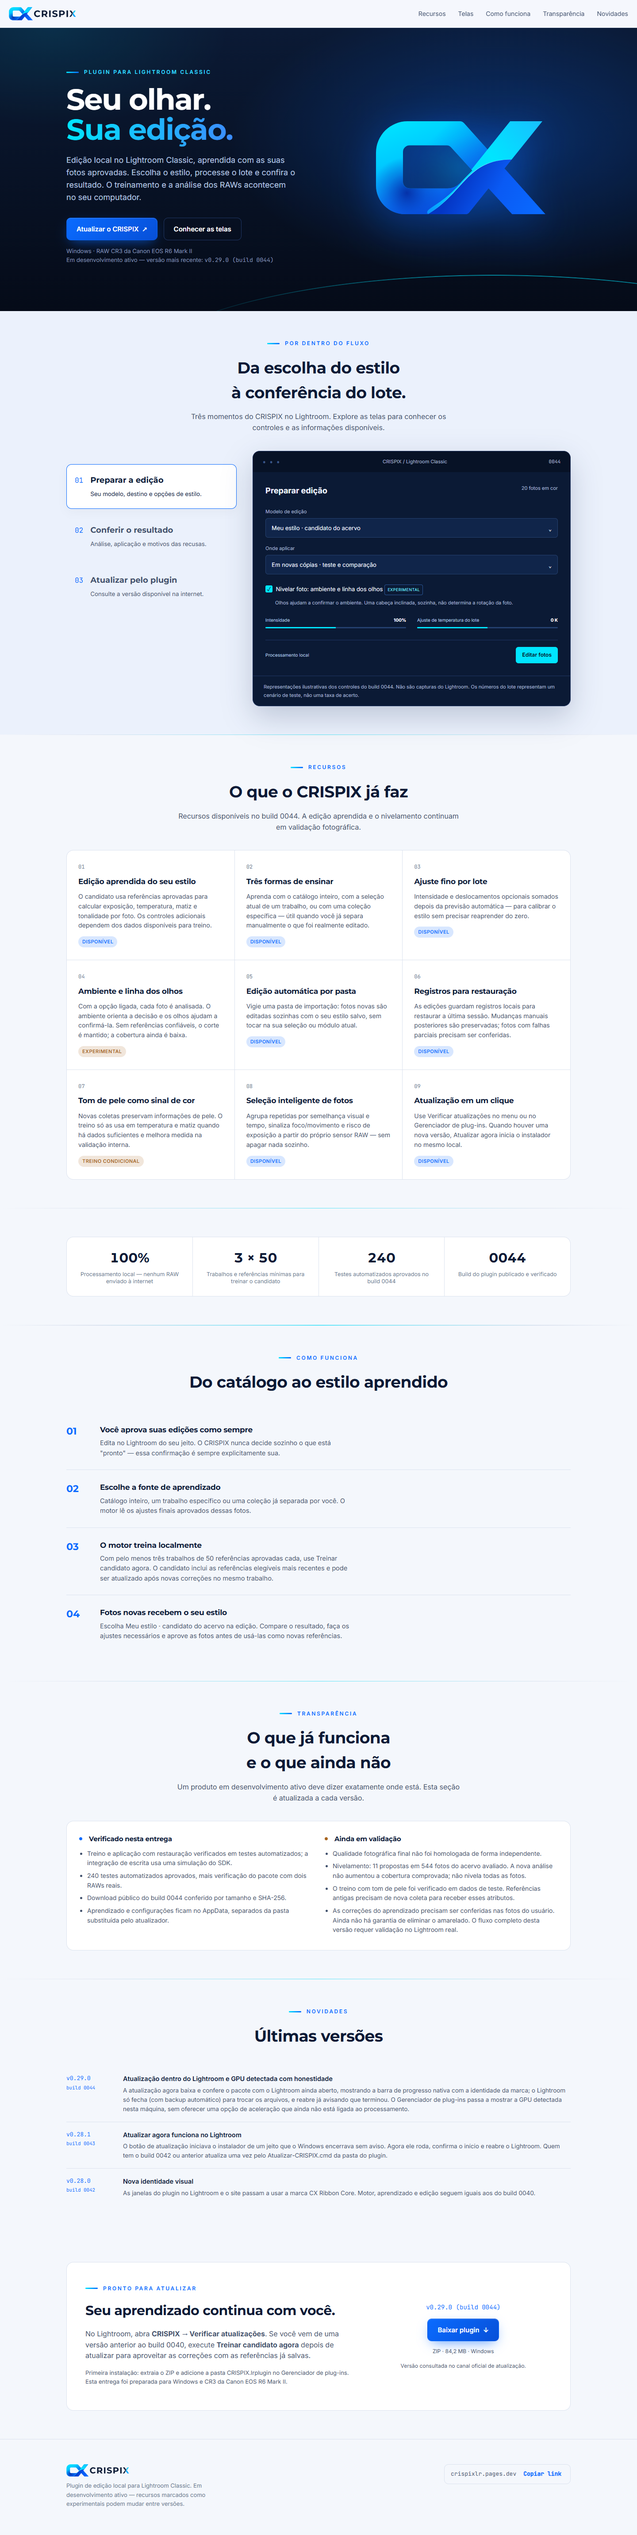
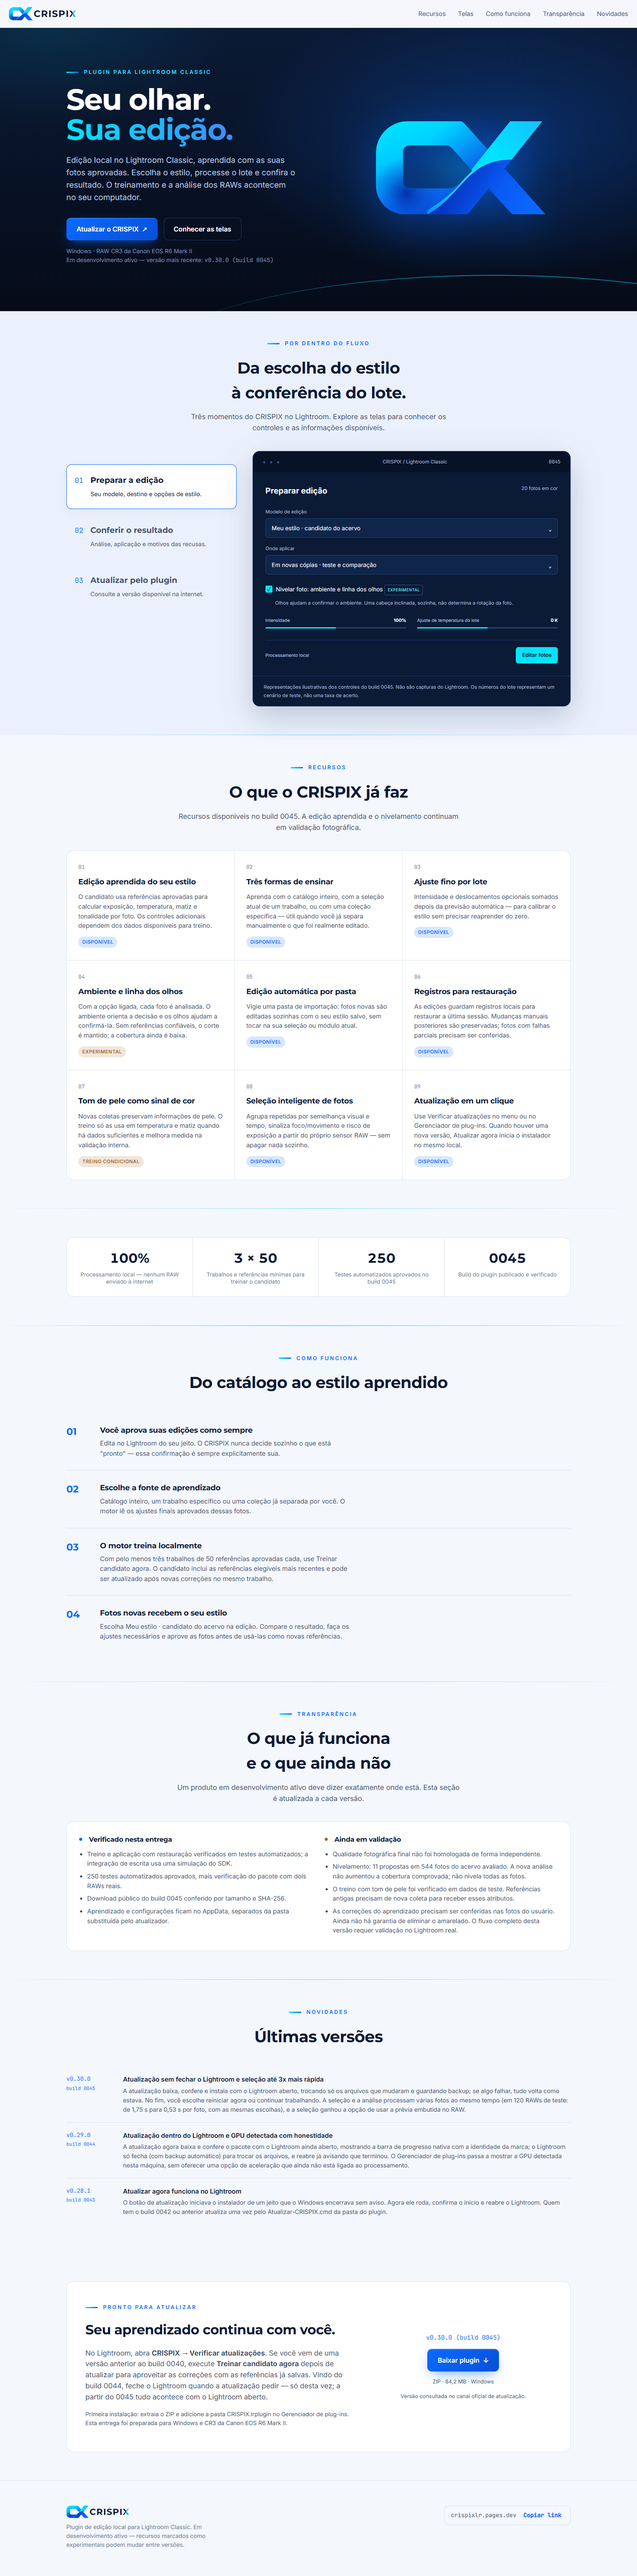
improve: atualiza textos fixos do site para o build 0045
Versao, link de download, contagem de testes (240 -> 250), tela
ilustrativa do atualizador (agora instala com o Lightroom aberto),
entrada de novidades do 0045 e aviso de transicao para quem vem do
0044. QA visual via Playwright: 9 verificacoes, zero erros de JS.

diff --git a/targets/mizin_lightroom/reconstructed/branding/site/index.html b/targets/mizin_lightroom/reconstructed/branding/site/index.html
@@ -3,7 +3,7 @@
 <head>
 <meta charset="utf-8">
 <meta name="viewport" content="width=device-width, initial-scale=1">
-<meta name="description" content="CRISPIX para Lightroom Classic: edição local, aprendizado com suas fotos aprovadas e atualização pelo próprio plugin. Conheça o build 0044.">
+<meta name="description" content="CRISPIX para Lightroom Classic: edição local, aprendizado com suas fotos aprovadas e atualização pelo próprio plugin. Conheça o build 0045.">
 <title>CRISPIX — seu estilo, no Lightroom Classic</title>
 <meta name="theme-color" content="#050B18">
 <link rel="icon" href="favicon.svg" type="image/svg+xml">
@@ -301,7 +301,7 @@
         <a class="btn btn-primary" href="#atualizar">Atualizar o CRISPIX <span aria-hidden="true">↗</span></a>
         <a class="btn btn-ghost" href="#telas">Conhecer as telas</a>
       </div>
-      <p class="hero-note">Windows · RAW CR3 da Canon EOS R6 Mark II<br>Em desenvolvimento ativo — versão mais recente: <span class="mono" id="verAtual">v0.29.0 (build 0044)</span></p>
+      <p class="hero-note">Windows · RAW CR3 da Canon EOS R6 Mark II<br>Em desenvolvimento ativo — versão mais recente: <span class="mono" id="verAtual">v0.30.0 (build 0045)</span></p>
     </div>
     <div class="mark-stage">
       <img src="brand/crispix-simbolo.svg" width="1192" height="660" alt="">
@@ -319,7 +319,7 @@
     <button id="tab-update" role="tab" aria-selected="false" aria-controls="screen-update" tabindex="-1" data-screen="update"><span class="screen-number">03</span><span><strong>Atualizar pelo plugin</strong><small>Consulte a versão disponível na internet.</small></span></button>
    </div>
    <div class="demo-frame">
-    <div class="demo-bar"><span class="demo-dots" aria-hidden="true">● ● ●</span><span>CRISPIX / Lightroom Classic</span><span class="mono">0044</span></div>
+    <div class="demo-bar"><span class="demo-dots" aria-hidden="true">● ● ●</span><span>CRISPIX / Lightroom Classic</span><span class="mono">0045</span></div>
     <div id="screen-edit" role="tabpanel" aria-labelledby="tab-edit" class="demo-panel">
      <div class="demo-heading"><strong>Preparar edição</strong><span>20 fotos em cor</span></div>
      <div class="mock-field"><span>Modelo de edição</span><div>Meu estilo · candidato do acervo <span aria-hidden="true">⌄</span></div></div>
@@ -339,11 +339,11 @@
     </div>
     <div id="screen-update" role="tabpanel" aria-labelledby="tab-update" class="demo-panel" hidden>
      <div class="demo-heading"><strong>Nova versão disponível</strong><span>Canal: internet</span></div>
-     <div class="update-version"><span class="small-badge">Disponível</span><strong>v0.29.0</strong><span class="mono">build 0044</span></div>
-     <p>O atualizador baixa o pacote e confere sua integridade antes de instalar.</p><div class="demo-callout">O Lightroom será fechado e reaberto. Conclua o backup do catálogo se a janela aparecer. O aprendizado salvo fica preservado.</div>
+     <div class="update-version"><span class="small-badge">Disponível</span><strong>v0.30.0</strong><span class="mono">build 0045</span></div>
+     <p>O atualizador baixa o pacote e confere sua integridade antes de instalar.</p><div class="demo-callout">A instalação acontece com o Lightroom aberto, com backup automático. No fim, escolha reiniciar agora ou depois. O aprendizado salvo fica preservado.</div>
      <div class="demo-actions"><span>Verificar atualizações</span><span class="mock-action">Atualizar agora</span></div>
     </div>
-    <p class="demo-caption">Representações ilustrativas dos controles do build 0044. Não são capturas do Lightroom. Os números do lote representam um cenário de teste, não uma taxa de acerto.</p>
+    <p class="demo-caption">Representações ilustrativas dos controles do build 0045. Não são capturas do Lightroom. Os números do lote representam um cenário de teste, não uma taxa de acerto.</p>
    </div>
   </div>
  </div>
@@ -357,7 +357,7 @@
     <div class="section-head">
       <div class="eyebrow">Recursos</div>
       <h2>O que o CRISPIX já faz</h2>
-      <p>Recursos disponíveis no build 0044. A edição aprendida e o nivelamento continuam em validação fotográfica.</p>
+      <p>Recursos disponíveis no build 0045. A edição aprendida e o nivelamento continuam em validação fotográfica.</p>
     </div>
     <div class="features">
       <div class="feature">
@@ -425,8 +425,8 @@
     <div class="stats">
       <div class="stat"><div class="big mono">100%</div><div class="lbl">Processamento local — nenhum RAW enviado à internet</div></div>
       <div class="stat"><div class="big mono">3 × 50</div><div class="lbl">Trabalhos e referências mínimas para treinar o candidato</div></div>
-      <div class="stat"><div class="big mono">240</div><div class="lbl">Testes automatizados aprovados no build 0044</div></div>
-      <div class="stat"><div class="big mono">0044</div><div class="lbl">Build do plugin publicado e verificado</div></div>
+      <div class="stat"><div class="big mono">250</div><div class="lbl">Testes automatizados aprovados no build 0045</div></div>
+      <div class="stat"><div class="big mono">0045</div><div class="lbl">Build do plugin publicado e verificado</div></div>
     </div>
   </div>
 </section>
@@ -485,8 +485,8 @@
         <h3><span class="pip on"></span>Verificado nesta entrega</h3>
         <ul>
           <li>Treino e aplicação com restauração verificados em testes automatizados; a integração de escrita usa uma simulação do SDK.</li>
-          <li>240 testes automatizados aprovados, mais verificação do pacote com dois RAWs reais.</li>
-          <li>Download público do build 0044 conferido por tamanho e SHA-256.</li>
+          <li>250 testes automatizados aprovados, mais verificação do pacote com dois RAWs reais.</li>
+          <li>Download público do build 0045 conferido por tamanho e SHA-256.</li>
           <li>Aprendizado e configurações ficam no AppData, separados da pasta substituída pelo atualizador.</li>
         </ul>
       </div>
@@ -512,14 +512,14 @@
       <h2>Últimas versões</h2>
     </div>
     <div class="log">
+<div class="log-row"><div class="log-ver">v0.30.0<br><small>build 0045</small></div><div class="log-body"><h4>Atualização sem fechar o Lightroom e seleção até 3x mais rápida</h4><p>A atualização baixa, confere e instala com o Lightroom aberto, trocando só os arquivos que mudaram e guardando backup; se algo falhar, tudo volta como estava. No fim, você escolhe reiniciar agora ou continuar trabalhando. A seleção e a análise processam várias fotos ao mesmo tempo (em 120 RAWs de teste: de 1,75 s para 0,53 s por foto, com as mesmas escolhas), e a seleção ganhou a opção de usar a prévia embutida no RAW.</p></div></div>
 <div class="log-row"><div class="log-ver">v0.29.0<br><small>build 0044</small></div><div class="log-body"><h4>Atualização dentro do Lightroom e GPU detectada com honestidade</h4><p>A atualização agora baixa e confere o pacote com o Lightroom ainda aberto, mostrando a barra de progresso nativa com a identidade da marca; o Lightroom só fecha (com backup automático) para trocar os arquivos, e reabre já avisando que terminou. O Gerenciador de plug-ins passa a mostrar a GPU detectada nesta máquina, sem oferecer uma opção de aceleração que ainda não está ligada ao processamento.</p></div></div>
 <div class="log-row"><div class="log-ver">v0.28.1<br><small>build 0043</small></div><div class="log-body"><h4>Atualizar agora funciona no Lightroom</h4><p>O botão de atualização iniciava o instalador de um jeito que o Windows encerrava sem aviso. Agora ele roda, confirma o início e reabre o Lightroom. Quem tem o build 0042 ou anterior atualiza uma vez pelo Atualizar-CRISPIX.cmd da pasta do plugin.</p></div></div>
-<div class="log-row"><div class="log-ver">v0.28.0<br><small>build 0042</small></div><div class="log-body"><h4>Nova identidade visual</h4><p>As janelas do plugin no Lightroom e o site passam a usar a marca CX Ribbon Core. Motor, aprendizado e edição seguem iguais aos do build 0040.</p></div></div>
     </div>
   </div>
 </section>
 
-<section id="atualizar" class="wrap"><div class="container download-panel"><div><div class="eyebrow">Pronto para atualizar</div><h2>Seu aprendizado continua com você.</h2><p>No Lightroom, abra <strong>CRISPIX → Verificar atualizações</strong>. Se você vem de uma versão anterior ao build 0040, execute <strong>Treinar candidato agora</strong> depois de atualizar para aproveitar as correções com as referências já salvas.</p><p class="download-note">Primeira instalação: extraia o ZIP e adicione a pasta CRISPIX.lrplugin no Gerenciador de plug-ins. Esta entrega foi preparada para Windows e CR3 da Canon EOS R6 Mark II.</p></div><div class="download-action"><span class="mono" id="download-version">v0.29.0 (build 0044)</span><a class="btn btn-primary" id="download-link" href="https://pub-739d5fceaa824a6c8c84e39bb74ec917.r2.dev/CRISPIX-0.29.0-build0044-motor-local.zip">Baixar plugin <span aria-hidden="true">↓</span></a><small id="download-size">ZIP · 84,2 MB · Windows</small><p id="release-status" role="status">Informações verificadas para o build 0044.</p></div></div></section>
+<section id="atualizar" class="wrap"><div class="container download-panel"><div><div class="eyebrow">Pronto para atualizar</div><h2>Seu aprendizado continua com você.</h2><p>No Lightroom, abra <strong>CRISPIX → Verificar atualizações</strong>. Se você vem de uma versão anterior ao build 0040, execute <strong>Treinar candidato agora</strong> depois de atualizar para aproveitar as correções com as referências já salvas. Vindo do build 0044, feche o Lightroom quando a atualização pedir — só desta vez; a partir do 0045 tudo acontece com o Lightroom aberto.</p><p class="download-note">Primeira instalação: extraia o ZIP e adicione a pasta CRISPIX.lrplugin no Gerenciador de plug-ins. Esta entrega foi preparada para Windows e CR3 da Canon EOS R6 Mark II.</p></div><div class="download-action"><span class="mono" id="download-version">v0.30.0 (build 0045)</span><a class="btn btn-primary" id="download-link" href="https://pub-739d5fceaa824a6c8c84e39bb74ec917.r2.dev/CRISPIX-0.30.0-build0045-motor-local.zip">Baixar plugin <span aria-hidden="true">↓</span></a><small id="download-size">ZIP · 84,2 MB · Windows</small><p id="release-status" role="status">Informações verificadas para o build 0045.</p></div></div></section>
 </main>
 <footer class="wrap">
   <div class="container foot-grid">

diff --git a/targets/mizin_lightroom/reconstructed/branding/site/showcase.js b/targets/mizin_lightroom/reconstructed/branding/site/showcase.js
@@ -36,7 +36,7 @@ fetch('latest.json', {cache: 'no-store'}).then(response => {
   document.getElementById('download-size').textContent = `ZIP · ${(release.archiveBytes / 1e6).toLocaleString('pt-BR', {maximumFractionDigits: 1})} MB · Windows`;
   document.getElementById('release-status').textContent = 'Versão consultada no canal oficial de atualização.';
 }).catch(() => {
-  document.getElementById('release-status').textContent = 'Canal indisponível no momento. O link acima é do build 0044 já publicado.';
+  document.getElementById('release-status').textContent = 'Canal indisponível no momento. O link acima é do build 0045 já publicado.';
 });
 
 // Only approved real pairs belong in comparisons.json. Empty galleries stay out of navigation.
